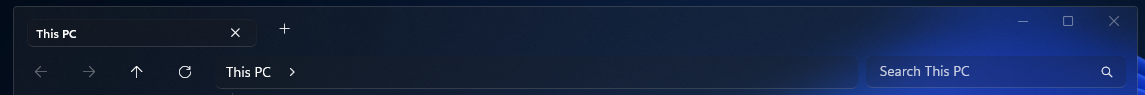
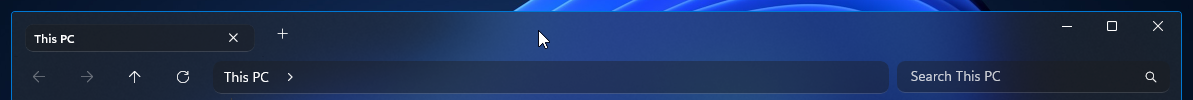
Revise theme styles with imprvoed visibility and better light and dark mode support

diff --git a/Themes/LiquidGlass/README.md b/Themes/LiquidGlass/README.md
@@ -2,18 +2,26 @@
 
 **Author**: [PhantomNimbi](https://github.com/PhantomNimbi)
 
+---
+
 ### Requirements
 
-* **Windhawk Mods**:
-  * [Windows 11 File Explorer Styler](https://windhawk.net/mods/windows-11-file-explorer-styler)
-  * [Translucent Windows](https://windhawk.net/mods/translucent-windows)
+* [Windows 11 File Explorer Styler](https://windhawk.net/mods/windows-11-file-explorer-styler)
+* [Translucent Windows](https://windhawk.net/mods/translucent-windows)
+
+---
 
 ![Screenshot](screenshot.png)
 
-### Translucent Windows
+---
 
-* Open the "Translucent Windows" mod in Windhawk.
-* Go to the "Advanced" tab and copy the code below into the "Mod settings" box and click "Save".
+## Translucent Windows
+
+The theme styles can also be imported manually. To do that, follow these steps:
+
+* Open the Translucent Windows mod in Windhawk.
+* Go to the "Advanced" tab.
+* Copy the content below to the text box under "Mod settings" and click "Save".
 
 <details>
 <summary>Content to import (click to expand)</summary>
@@ -42,29 +50,10 @@
   "BorderColor.RainbowBorder": 0,
   "BorderColor.borderstyles_active": "",
   "BorderColor.borderstyles_inactive": "",
-  "RuledPrograms[0].target": "",
-  "RuledPrograms[0].RenderingMod.ThemeBackground": 0,
-  "RuledPrograms[0].RenderingMod.AccentColorControls": 0,
-  "RuledPrograms[0].type": "",
-  "RuledPrograms[0].AccentBlurBehind": "",
-  "RuledPrograms[0].ImmersiveDarkTitle": 0,
-  "RuledPrograms[0].ExtendFrame": 0,
-  "RuledPrograms[0].CornerOption": "",
-  "RuledPrograms[0].RainbowSpeed": 0,
-  "RuledPrograms[0].TitlebarColor.ColorTitlebar": 0,
-  "RuledPrograms[0].TitlebarColor.RainbowTitlebar": 0,
-  "RuledPrograms[0].TitlebarColor.titlerbarstyles_active": "",
-  "RuledPrograms[0].TitlebarColor.titlerbarstyles_inactive": "",
-  "RuledPrograms[0].TitlebarTextColor.ColorTitlebarText": 0,
-  "RuledPrograms[0].TitlebarTextColor.RainbowTextColor": 0,
-  "RuledPrograms[0].TitlebarTextColor.titlerbarcolorstyles_active": "",
-  "RuledPrograms[0].TitlebarTextColor.titlerbarcolorstyles_inactive": "",
-  "RuledPrograms[0].BorderColor.ColorBorder": 0,
-  "RuledPrograms[0].BorderColor.RainbowBorder": 0,
-  "RuledPrograms[0].BorderColor.borderstyles_active": "",
-  "RuledPrograms[0].BorderColor.borderstyles_inactive": ""
+  "RuledPrograms[0].target": "C:\\Program Files\\VideoLAN\\VLC\\vlc.exe"
 }
 ```
+
 </details>
 
 ## Theme selection
@@ -209,4 +198,5 @@ The theme styles can also be imported manually. To do that, follow these steps:
   "controlStyles[35].styles[0]": "Background:=Transparent"
 }
 ```
+
 </details>
